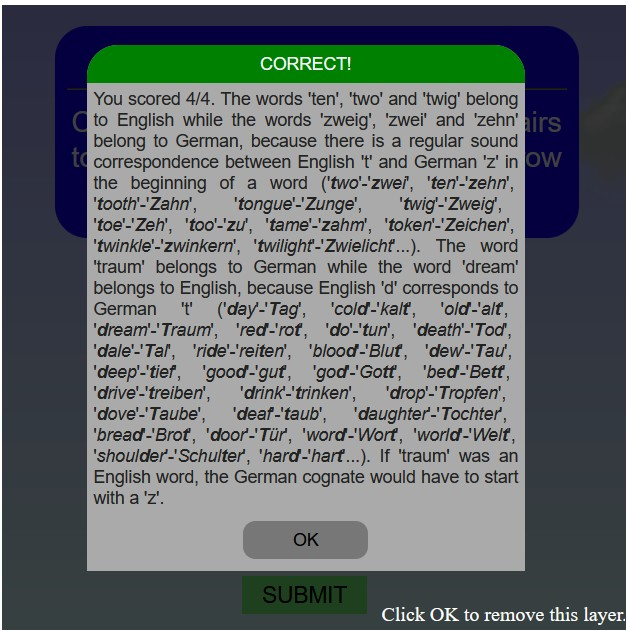
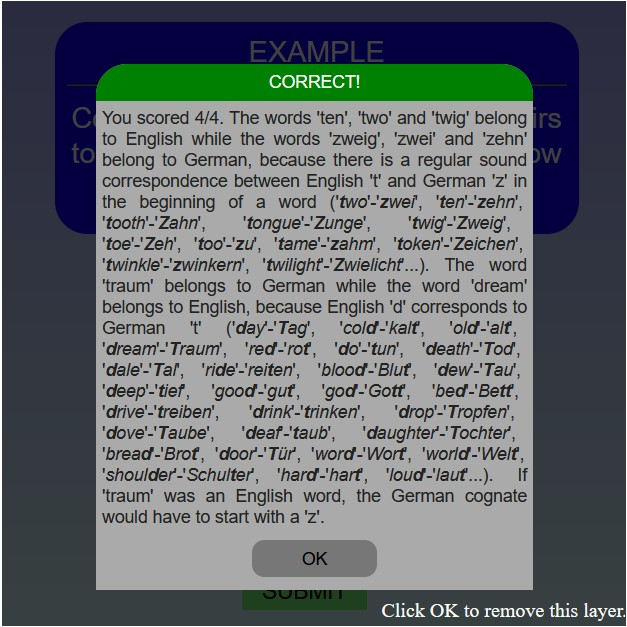
Add files via upload

Changed region(s): [[0.0, 0.0, 1.0, 0.9697]]

diff --git a/etymologist.html b/etymologist.html
@@ -435,7 +435,8 @@
         >testing a completely randomized algorithm</a
       >
       against that same database, I got
-      <a href="validation_of_control_algorithm.html">these results</a>.
+      <a href="validation_of_control_algorithm.html">these results</a>.<br/><br/>
+      UPDATE on 20/02/2026: I've attempted to make <a href="https://etymology-game-in-jquery.sourceforge.io/guess-the-pronunciability.html">a Machine-Learning program that will attempt to estimate how pronounceable randomly-generated words are using the Sonority Sequencing Principle</a>.
     </div>
     <script type="text/javascript">
       if (!window.$)
@@ -1938,7 +1939,7 @@
           '<div style="text-align:justify; margin-top:5px; margin-bottom:10px; color:#222222; width:340px; margin-left:5px; margin-right:5px;" align="justfy">' +
             "You scored " +
             score +
-            "/4. The words 'ten', 'two' and 'twig' belong to English while the words 'zweig', 'zwei' and 'zehn' belong to German, because there is a regular sound correspondence between English 't' and German 'z' in the beginning of a word ('<i><b>t</b>wo</i>'-'<i lang=\"de\"><b>z</b>wei</i>', '<i><b>t</b>en</i>'-'<i lang=\"de\"><b>z</b>ehn</i>', '<i><b>t</b>ooth</i>'-'<i lang=\"de\"><b>Z</b>ahn</i>', '<i><b>t</b>ongue</i>'-'<i lang=\"de\"><b>Z</b>unge</i>', '<i><b>t</b>wig</i>'-'<i lang=\"de\"><b>Z</b>weig</i>', '<i><b>t</b>oe</i>'-'<i lang=\"de\"><b>Z</b>eh</i>', '<i><b>t</b>oo</i>'-'<i lang=\"de\"><b>z</b>u</i>', '<i><b>t</b>ame</i>'-'<i lang=\"de\"><b>z</b>ahm</i>', '<i><b>t</b>oken</i>'-'<i lang=\"de\"><b>Z</b>eichen</i>', '<i><b>t</b>winkle</i>'-'<i lang=\"de\"><b>z</b>winkern</i>', '<i><b>t</b>wilight</i>'-'<i><b>Z</b>wielicht</i>'...). The word 'traum' belongs to German while the word 'dream' belongs to English, because English 'd' corresponds to German 't' ('<i><b>d</b>ay</i>'-'<i lang=\"de\"><b>T</b>ag</i>', '<i>col<b>d</b></i>'-'<i lang=\"de\">kal<b>t</b></i>', '<i>ol<b>d</b></i>'-'<i lang=\"de\">al<b>t</b></i>', '<i><b>d</b>ream</i>'-'<i lang=\"de\"><b>T</b>raum</i>', '<i>re<b>d</b></i>'-'<i lang=\"de\">ro<b>t</b></i>', '<i><b>d</b>o</i>'-'<i lang=\"de\"><b>t</b>un</i>', '<i><b>d</b>eath</i>'-'<i lang=\"de\"><b>T</b>od</i>', '<i><b>d</b>ale</i>'-'<i lang=\"de\"><b>T</b>al</i>', '<i>ri<b>d</b>e</i>'-'<i lang=\"de\">rei<b>t</b>en</i>', '<i>bloo<b>d</b></i>'-'<i lang=\"de\">Blu<b>t</b></i>', '<i><b>d</b>ew</i>'-'<i lang=\"de\"><b>T</b>au</i>', '<i><b>d</b>eep</i>'-'<i lang=\"de\"><b>t</b>ief</i>', '<i>goo<b>d</b></i>'-'<i lang=\"de\">gu<b>t</b></i>', '<i>go<b>d</b></i>'-'<i lang=\"de\">Go<b>tt</b></i>', '<i>be<b>d</b></i>'-'<i lang=\"de\">Be<b>tt</b></i>', '<i><b>d</b>rive</i>'-'<i lang=\"de\"><b>t</b>reiben</i>', '<i><b>d</b>rink</i>'-'<i lang=\"de\"><b>t</b>rinken</i>', '<i><b>d</b>rop</i>'-'<i lang=\"de\"><b>T</b>ropfen</i>', '<i><b>d</b>ove</i>'-'<i lang=\"de\"><b>T</b>aube</i>', '<i><b>d</b>eaf</i>'-'<i lang=\"de\"><b>t</b>aub</i>', '<i><b>d</b>aughter</i>'-'<i lang=\"de\"><b>T</b>ochter</i>', '<i>brea<b>d</b></i>'-'<i lang=\"de\">Bro<b>t</b></i>', '<i><b>d</b>oor</i>'-'<i lang=\"de\"><b>T</b>&#x00fc;r</i>', '<i>wor<b>d</b></i>'-'<i lang=\"de\">Wor<b>t</b></i>', '<i>worl<b>d</b></i>'-'<i lang=\"de\">Wel<b>t</b></i>', '<i>shoul<b>d</b>er</i>'-'<i lang=\"de\">Schul<b>t</b>er</i>', '<i>har<b>d</b></i>'-'<i lang=\"de\">har<b>t</b></i>'...). If 'traum' was an English word, the German cognate would have to start with a 'z'." +
+	    "/4. The words 'ten', 'two' and 'twig' belong to English while the words 'zweig', 'zwei' and 'zehn' belong to German, because there is a regular sound correspondence between English 't' and German 'z' in the beginning of a word ('<i><b>t</b>wo</i>'-'<i lang=\"de\"><b>z</b>wei</i>', '<i><b>t</b>en</i>'-'<i lang=\"de\"><b>z</b>ehn</i>', '<i><b>t</b>ooth</i>'-'<i lang=\"de\"><b>Z</b>ahn</i>', '<i><b>t</b>ongue</i>'-'<i lang=\"de\"><b>Z</b>unge</i>', '<i><b>t</b>wig</i>'-'<i lang=\"de\"><b>Z</b>weig</i>', '<i><b>t</b>oe</i>'-'<i lang=\"de\"><b>Z</b>eh</i>', '<i><b>t</b>oo</i>'-'<i lang=\"de\"><b>z</b>u</i>', '<i><b>t</b>ame</i>'-'<i lang=\"de\"><b>z</b>ahm</i>', '<i><b>t</b>oken</i>'-'<i lang=\"de\"><b>Z</b>eichen</i>', '<i><b>t</b>winkle</i>'-'<i lang=\"de\"><b>z</b>winkern</i>', '<i><b>t</b>wilight</i>'-'<i><b>Z</b>wielicht</i>'...). The word 'traum' belongs to German while the word 'dream' belongs to English, because English 'd' corresponds to German 't' ('<i><b>d</b>ay</i>'-'<i lang=\"de\"><b>T</b>ag</i>', '<i>col<b>d</b></i>'-'<i lang=\"de\">kal<b>t</b></i>', '<i>ol<b>d</b></i>'-'<i lang=\"de\">al<b>t</b></i>', '<i><b>d</b>ream</i>'-'<i lang=\"de\"><b>T</b>raum</i>', '<i>re<b>d</b></i>'-'<i lang=\"de\">ro<b>t</b></i>', '<i><b>d</b>o</i>'-'<i lang=\"de\"><b>t</b>un</i>', '<i><b>d</b>eath</i>'-'<i lang=\"de\"><b>T</b>od</i>', '<i><b>d</b>ale</i>'-'<i lang=\"de\"><b>T</b>al</i>', '<i>ri<b>d</b>e</i>'-'<i lang=\"de\">rei<b>t</b>en</i>', '<i>bloo<b>d</b></i>'-'<i lang=\"de\">Blu<b>t</b></i>', '<i><b>d</b>ew</i>'-'<i lang=\"de\"><b>T</b>au</i>', '<i><b>d</b>eep</i>'-'<i lang=\"de\"><b>t</b>ief</i>', '<i>goo<b>d</b></i>'-'<i lang=\"de\">gu<b>t</b></i>', '<i>go<b>d</b></i>'-'<i lang=\"de\">Go<b>tt</b></i>', '<i>be<b>d</b></i>'-'<i lang=\"de\">Be<b>tt</b></i>', '<i><b>d</b>rive</i>'-'<i lang=\"de\"><b>t</b>reiben</i>', '<i><b>d</b>rink</i>'-'<i lang=\"de\"><b>t</b>rinken</i>', '<i><b>d</b>rop</i>'-'<i lang=\"de\"><b>T</b>ropfen</i>', '<i><b>d</b>ove</i>'-'<i lang=\"de\"><b>T</b>aube</i>', '<i><b>d</b>eaf</i>'-'<i lang=\"de\"><b>t</b>aub</i>', '<i><b>d</b>aughter</i>'-'<i lang=\"de\"><b>T</b>ochter</i>', '<i>brea<b>d</b></i>'-'<i lang=\"de\">Bro<b>t</b></i>', '<i><b>d</b>oor</i>'-'<i lang=\"de\"><b>T</b>&#x00fc;r</i>', '<i>wor<b>d</b></i>'-'<i lang=\"de\">Wor<b>t</b></i>', '<i>worl<b>d</b></i>'-'<i lang=\"de\">Wel<b>t</b></i>', '<i>shoul<b>d</b>er</i>'-'<i lang=\"de\">Schul<b>t</b>er</i>', '<i>har<b>d</b></i>'-'<i lang=\"de\">har<b>t</b></i>', '<i>lou<b>d</b></i>'-'<i lang=\"de\">lau<b>t</b></i>'...). If 'traum' was an English word, the German cognate would have to start with a 'z'." +
             "</div>" +
             '<center><div class="okButton">OK</div></center>'
         );

diff --git a/etymology.html b/etymology.html
@@ -1140,7 +1140,7 @@ and open the template in the editor.
       tekst.appendChild(document.createElement("br"));
       tekst.appendChild(
         document.createTextNode(
-          "Solution: The words 'ten', 'two' and 'twig' belong to English while the words 'zweig', 'zwei' and 'zehn' belong to German, because there is a regular sound correspondence between English 't' and German 'z' in the beginning of a word  ('two'-'zwei', 'ten'-'zehn', 'tooth'-'Zahn', 'tongue'-'Zunge', 'twig'-'Zweig', 'toe'-'Zeh', 'too'-'zu', 'tame'-'zahm', 'token'-'Zeichen', 'twinkle'-'zwinkern', 'twilight'-'Zwielicht'...). The word 'traum' belongs to German while the word 'dream' belongs to English, because English 'd' corresponds to German 't' ('day'-'Tag', 'cold'-'kalt', 'old'-'alt', 'dream'-'Traum', 'red'-'rot', 'do'-'tun', 'death'-'Tod', 'dale'-'Tal', 'ride'-'reiten', 'blood'-'Blut', 'dew'-'Tau', 'deep'-'tief', 'good'-'gut', 'god'-'Gott', 'bed'-'Bett', 'drive'-'treiben', 'drink'-'trinken', 'drop'-'Tropfen', 'dove'-'Taube', 'deaf'-'taub', 'daughter'-'Tochter', 'bread'-'Brot', 'door'-'Tuer', 'word'-'Wort', 'world'-'Welt', 'shoulder'-'Schulter', 'hard'-'hart'...). If 'traum' was an English word, the German cognate would have to start with a 'z'."
+          "Solution: The words 'ten', 'two' and 'twig' belong to English while the words 'zweig', 'zwei' and 'zehn' belong to German, because there is a regular sound correspondence between English 't' and German 'z' in the beginning of a word  ('two'-'zwei', 'ten'-'zehn', 'tooth'-'Zahn', 'tongue'-'Zunge', 'twig'-'Zweig', 'toe'-'Zeh', 'too'-'zu', 'tame'-'zahm', 'token'-'Zeichen', 'twinkle'-'zwinkern', 'twilight'-'Zwielicht'...). The word 'traum' belongs to German while the word 'dream' belongs to English, because English 'd' corresponds to German 't' ('day'-'Tag', 'cold'-'kalt', 'old'-'alt', 'dream'-'Traum', 'red'-'rot', 'do'-'tun', 'death'-'Tod', 'dale'-'Tal', 'ride'-'reiten', 'blood'-'Blut', 'dew'-'Tau', 'deep'-'tief', 'good'-'gut', 'god'-'Gott', 'bed'-'Bett', 'drive'-'treiben', 'drink'-'trinken', 'drop'-'Tropfen', 'dove'-'Taube', 'deaf'-'taub', 'daughter'-'Tochter', 'bread'-'Brot', 'door'-'Tuer', 'word'-'Wort', 'world'-'Welt', 'shoulder'-'Schulter', 'hard'-'hart', 'loud'-'laut'...). If 'traum' was an English word, the German cognate would have to start with a 'z'."
         )
       );
       for (var i = 0; i < 2; i++)
